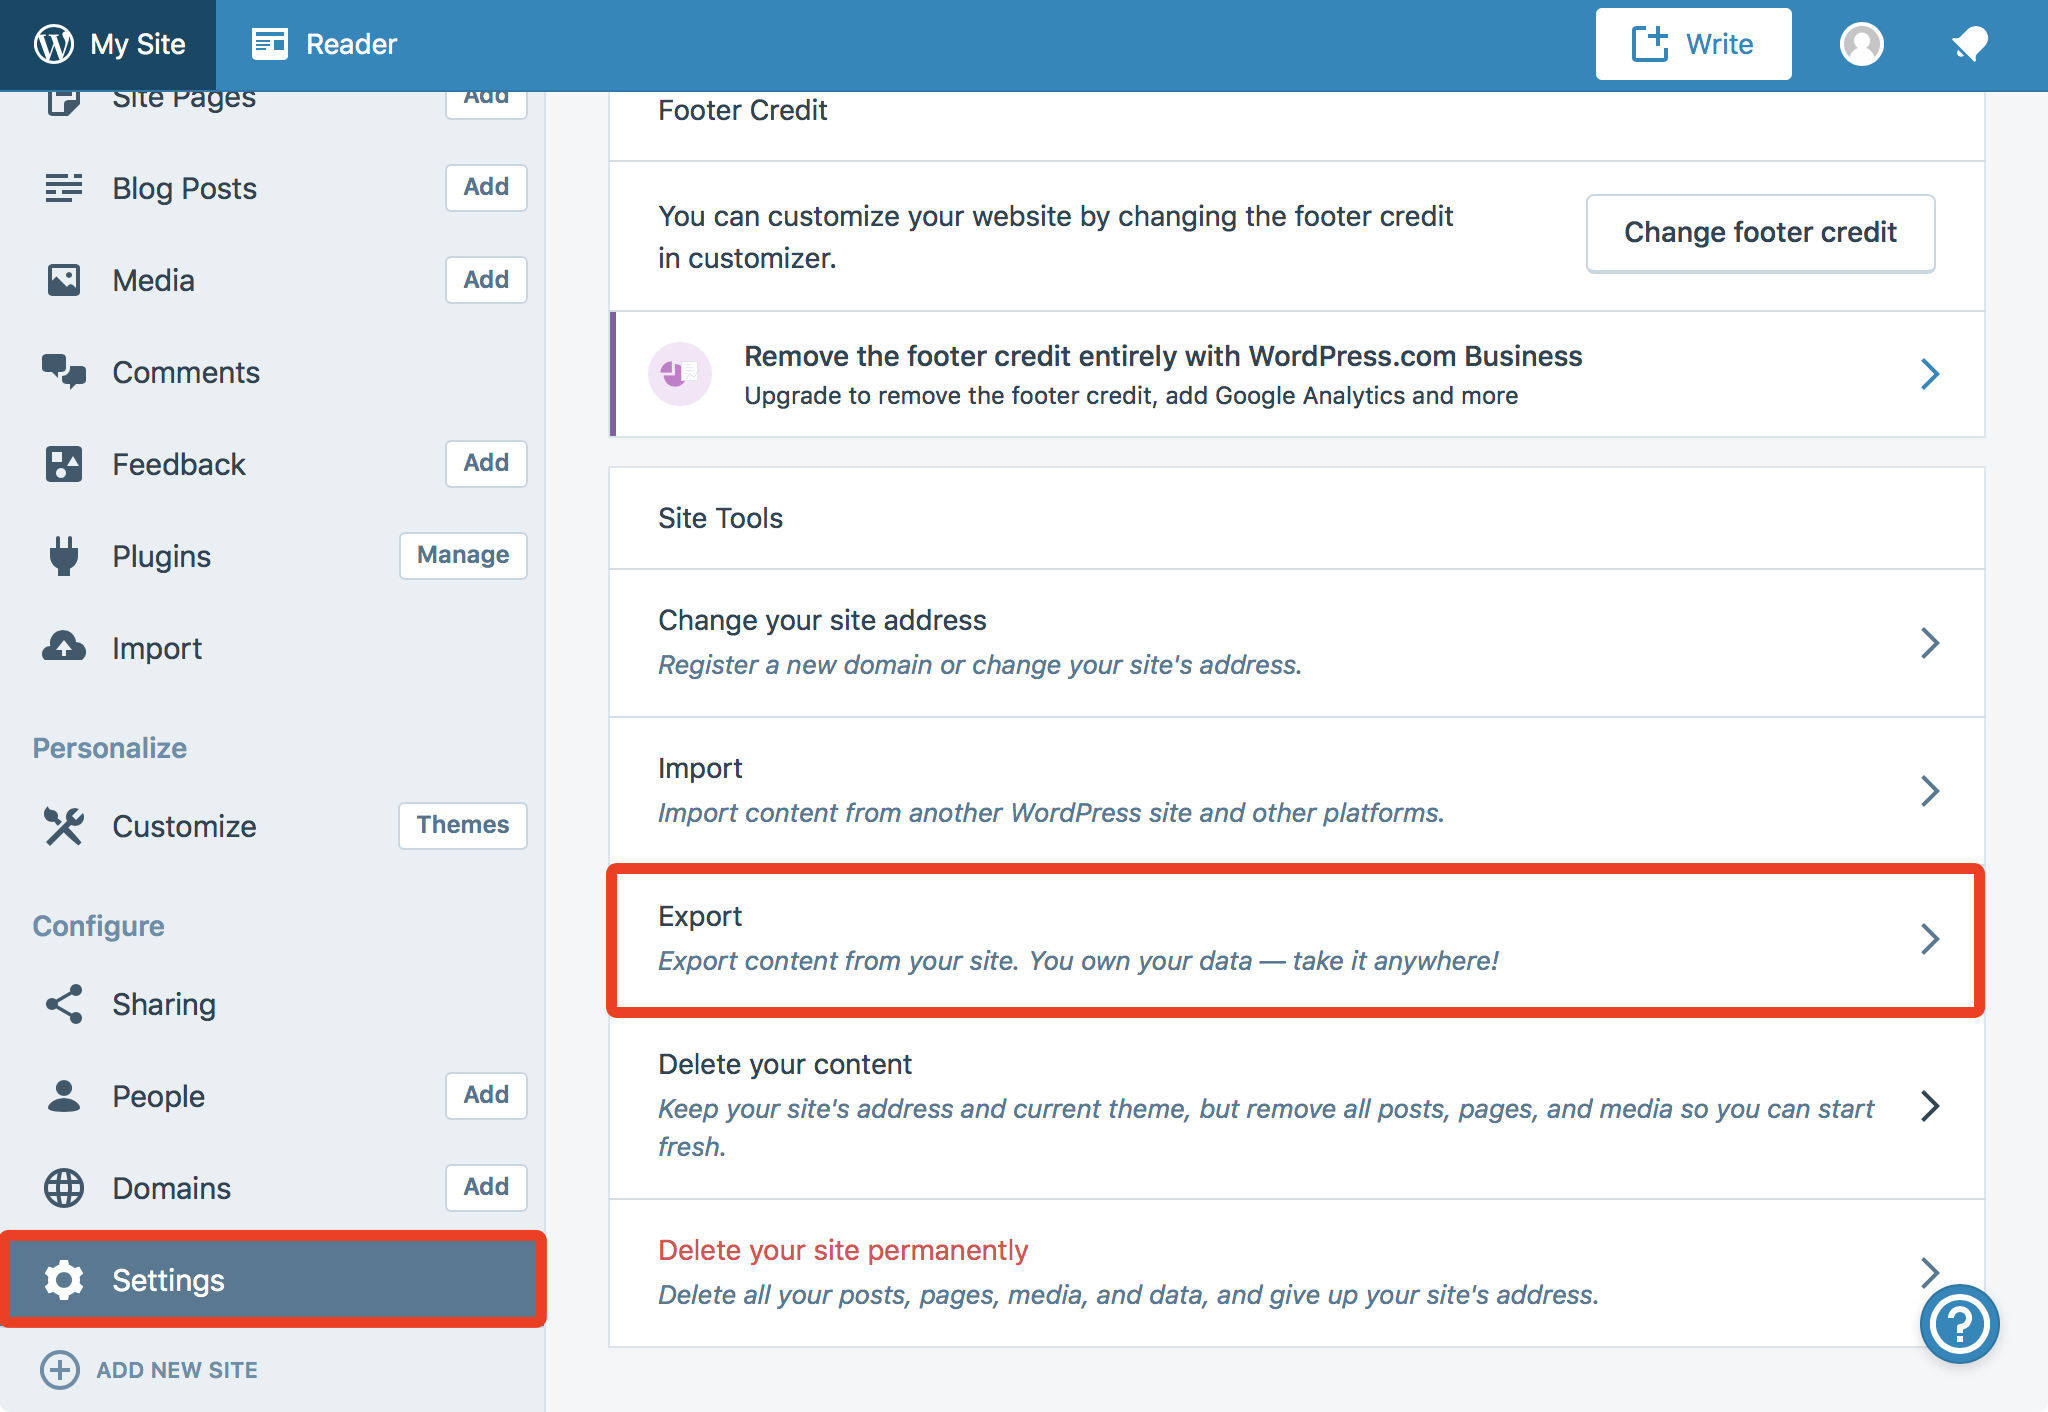
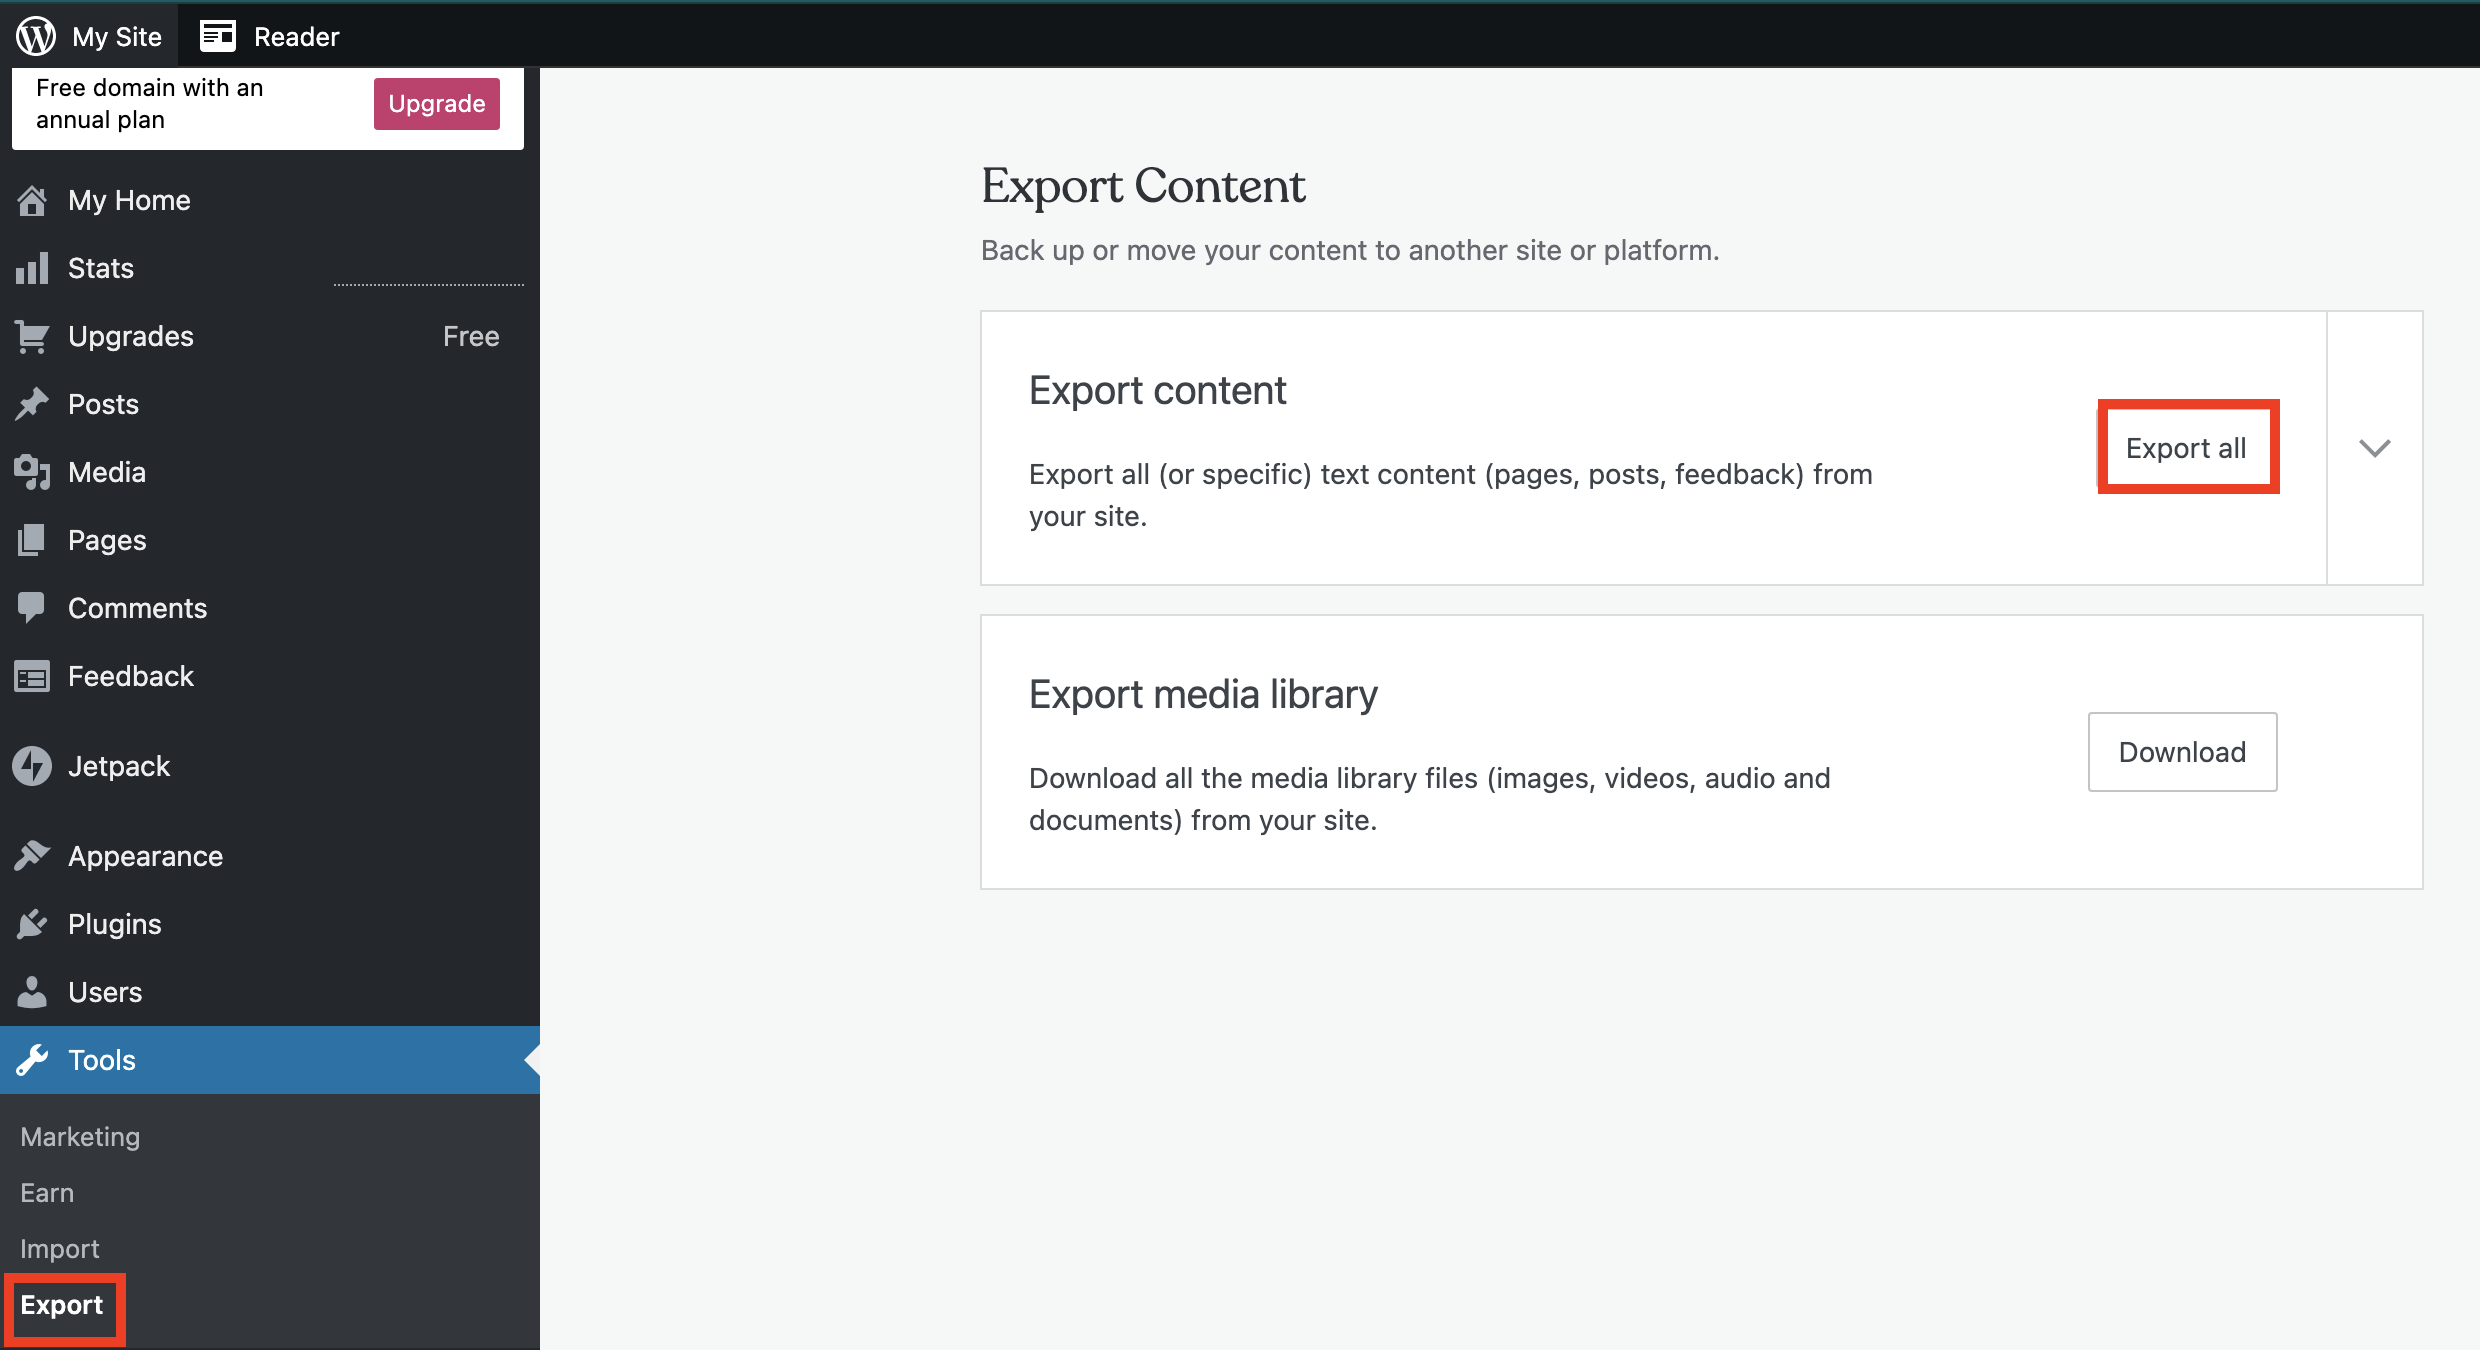
[Update] How to Migrate a Wordpress.com site to Linode

diff --git a/docs/guides/platform/migrate-to-linode/migrate-a-wordpressdotcom-site-to-linode/index.md b/docs/guides/platform/migrate-to-linode/migrate-a-wordpressdotcom-site-to-linode/index.md
@@ -37,7 +37,7 @@ WordPress.com's export feature will export pages, posts, and comments from your 
 
 ### Export Your WordPress.com Content
 
-1.  Login to your WordPress.com dashboard and navigate to the `Settings` page. Choose the `Export` option from the `Settings` page:
+1.  Login to your WordPress.com dashboard and navigate to the `Export` page of the `Tools` section. Choose the `Export all` option under the `Export content` subsection:
 
     ![WordPress.com Settings Page](wordpressdotcom-settings.png "Choose the Export option from the Settings page.")
 
